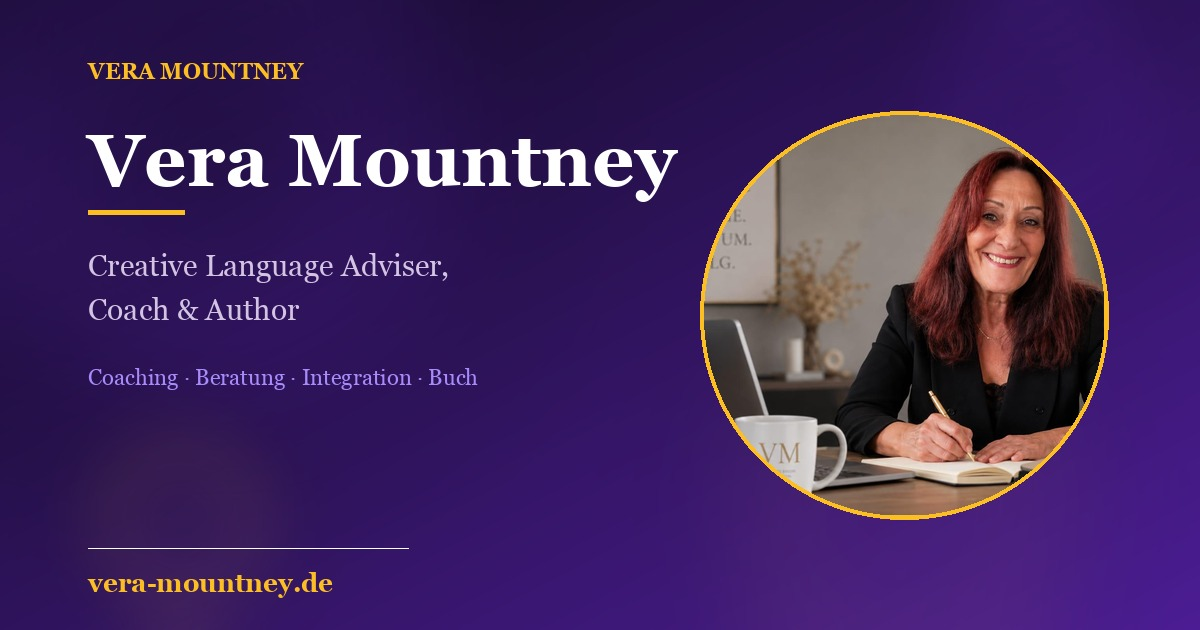
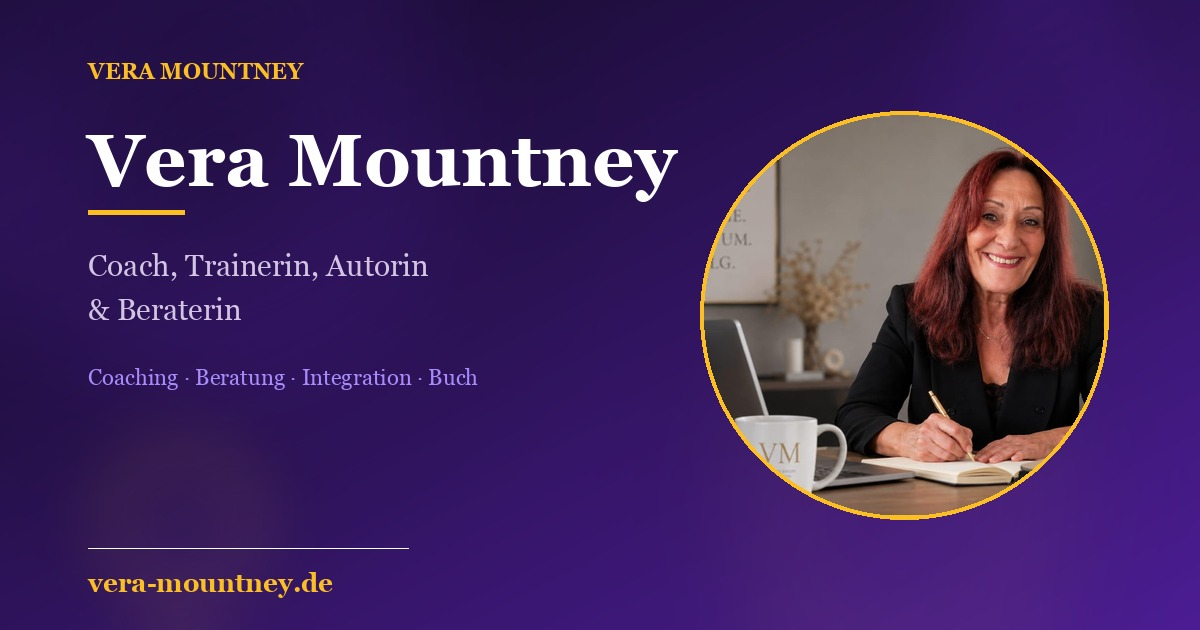
Use German as the default Open Graph image and share meta text.
Updates the share card wording and default HTML meta tags to match the site's German-first default.

Changed region(s): [[0.0925, 0.3921, 0.37, 0.4524], [0.0617, 0.4825, 0.2467, 0.5127]]

diff --git a/index.html b/index.html
@@ -16,19 +16,20 @@
     <meta property="og:image:type" content="image/jpeg" />
     <meta property="og:image:width" content="1200" />
     <meta property="og:image:height" content="630" />
-    <meta property="og:image:alt" content="Vera Mountney — Creative Language Adviser, Coach & Author" />
+    <meta property="og:image:alt" content="Vera Mountney — Coach, Trainerin, Autorin & Beraterin" />
+    <meta property="og:locale" content="de_DE" />
     <meta name="twitter:card" content="summary_large_image" />
-    <meta name="twitter:title" content="Vera Mountney — Coach, Trainer, Author & Adviser" />
-    <meta name="twitter:description" content="Coaching, guidance, authorship and intercultural support in Verden." />
+    <meta name="twitter:title" content="Vera Mountney — Coach, Trainer, Autorin & Beraterin" />
+    <meta name="twitter:description" content="Coaching, Beratung, Autorenschaft und interkulturelle Unterstützung in Verden." />
     <meta name="twitter:image" content="https://vera-mountney.de/og-image.jpg" />
-    <meta name="twitter:image:alt" content="Vera Mountney — Creative Language Adviser, Coach & Author" />
+    <meta name="twitter:image:alt" content="Vera Mountney — Coach, Trainerin, Autorin & Beraterin" />
     <link rel="preconnect" href="https://fonts.googleapis.com" />
     <link rel="preconnect" href="https://fonts.gstatic.com" crossorigin />
     <link
       href="https://fonts.googleapis.com/css2?family=Cormorant+Garamond:ital,wght@0,400;0,500;0,600;0,700;1,400&family=DM+Sans:ital,opsz,wght@0,9..40,300;0,9..40,400;0,9..40,500;0,9..40,600;0,9..40,700;1,9..40,400&display=swap"
       rel="stylesheet"
     />
-    <title>Vera Mountney — Coach, Trainer, Author & Adviser</title>
+    <title>Vera Mountney — Coach, Trainer, Autorin & Beraterin</title>
   </head>
   <body>
     <div id="root"></div>

diff --git a/src/components/PageMeta.tsx b/src/components/PageMeta.tsx
@@ -39,13 +39,13 @@ export function PageMeta({ titleKey, descriptionKey, image = OG_IMAGE }: PageMet
     setMeta('og:image:type', 'image/jpeg', true)
     setMeta('og:image:width', String(OG_IMAGE_WIDTH), true)
     setMeta('og:image:height', String(OG_IMAGE_HEIGHT), true)
-    setMeta('og:image:alt', 'Vera Mountney — Creative Language Adviser, Coach & Author', true)
+    setMeta('og:image:alt', t('meta.home.ogImageAlt'), true)
     setMeta('og:locale', i18n.language === 'de' ? 'de_DE' : 'en_US', true)
     setMeta('twitter:card', 'summary_large_image')
     setMeta('twitter:title', title)
     setMeta('twitter:description', description)
     setMeta('twitter:image', imageUrl)
-    setMeta('twitter:image:alt', 'Vera Mountney — Creative Language Adviser, Coach & Author')
+    setMeta('twitter:image:alt', t('meta.home.ogImageAlt'))
   }, [t, i18n.language, titleKey, descriptionKey, image])
 
   return null

diff --git a/src/content/de.ts b/src/content/de.ts
@@ -4,6 +4,7 @@ const de = {
       title: 'Vera Mountney, Coach, Trainer, Autorin & Beraterin',
       description:
         'Coaching, Beratung, Autorenschaft und interkulturelle Unterstützung in Verden. Individuelle Begleitung für Bewerbung, Karriere, Integration und Kommunikation.',
+      ogImageAlt: 'Vera Mountney — Coach, Trainerin, Autorin & Beraterin',
     },
     about: {
       title: 'Über Vera Mountney',

diff --git a/src/content/en.ts b/src/content/en.ts
@@ -4,6 +4,7 @@ const en = {
       title: 'Vera Mountney, Coach, Trainer, Author & Adviser',
       description:
         'Coaching, guidance, authorship and intercultural support in Verden. Personal support for applications, career, integration and communication.',
+      ogImageAlt: 'Vera Mountney — Coach, Trainer, Author & Adviser',
     },
     about: {
       title: 'About Vera Mountney',

diff --git a/scripts/generate-og-image.py b/scripts/generate-og-image.py
@@ -102,8 +102,8 @@ def main() -> None:
     draw.text((88, 58), "VERA MOUNTNEY", font=label_font, fill=(251, 191, 36))
     draw.text((88, 118), "Vera Mountney", font=title_font, fill=(255, 255, 255))
     draw.rectangle((88, 210, 184, 214), fill=(251, 191, 36))
-    draw.text((88, 248), "Creative Language Adviser,", font=body_font, fill=(212, 196, 228))
-    draw.text((88, 292), "Coach & Author", font=body_font, fill=(212, 196, 228))
+    draw.text((88, 248), "Coach, Trainerin, Autorin", font=body_font, fill=(212, 196, 228))
+    draw.text((88, 292), "& Beraterin", font=body_font, fill=(212, 196, 228))
     draw.text((88, 364), "Coaching · Beratung · Integration · Buch", font=sub_font, fill=(167, 139, 250))
     draw.line((88, 548, 408, 548), fill=(255, 255, 255, 40), width=1)
     draw.text((88, 568), "vera-mountney.de", font=url_font, fill=(251, 191, 36))
